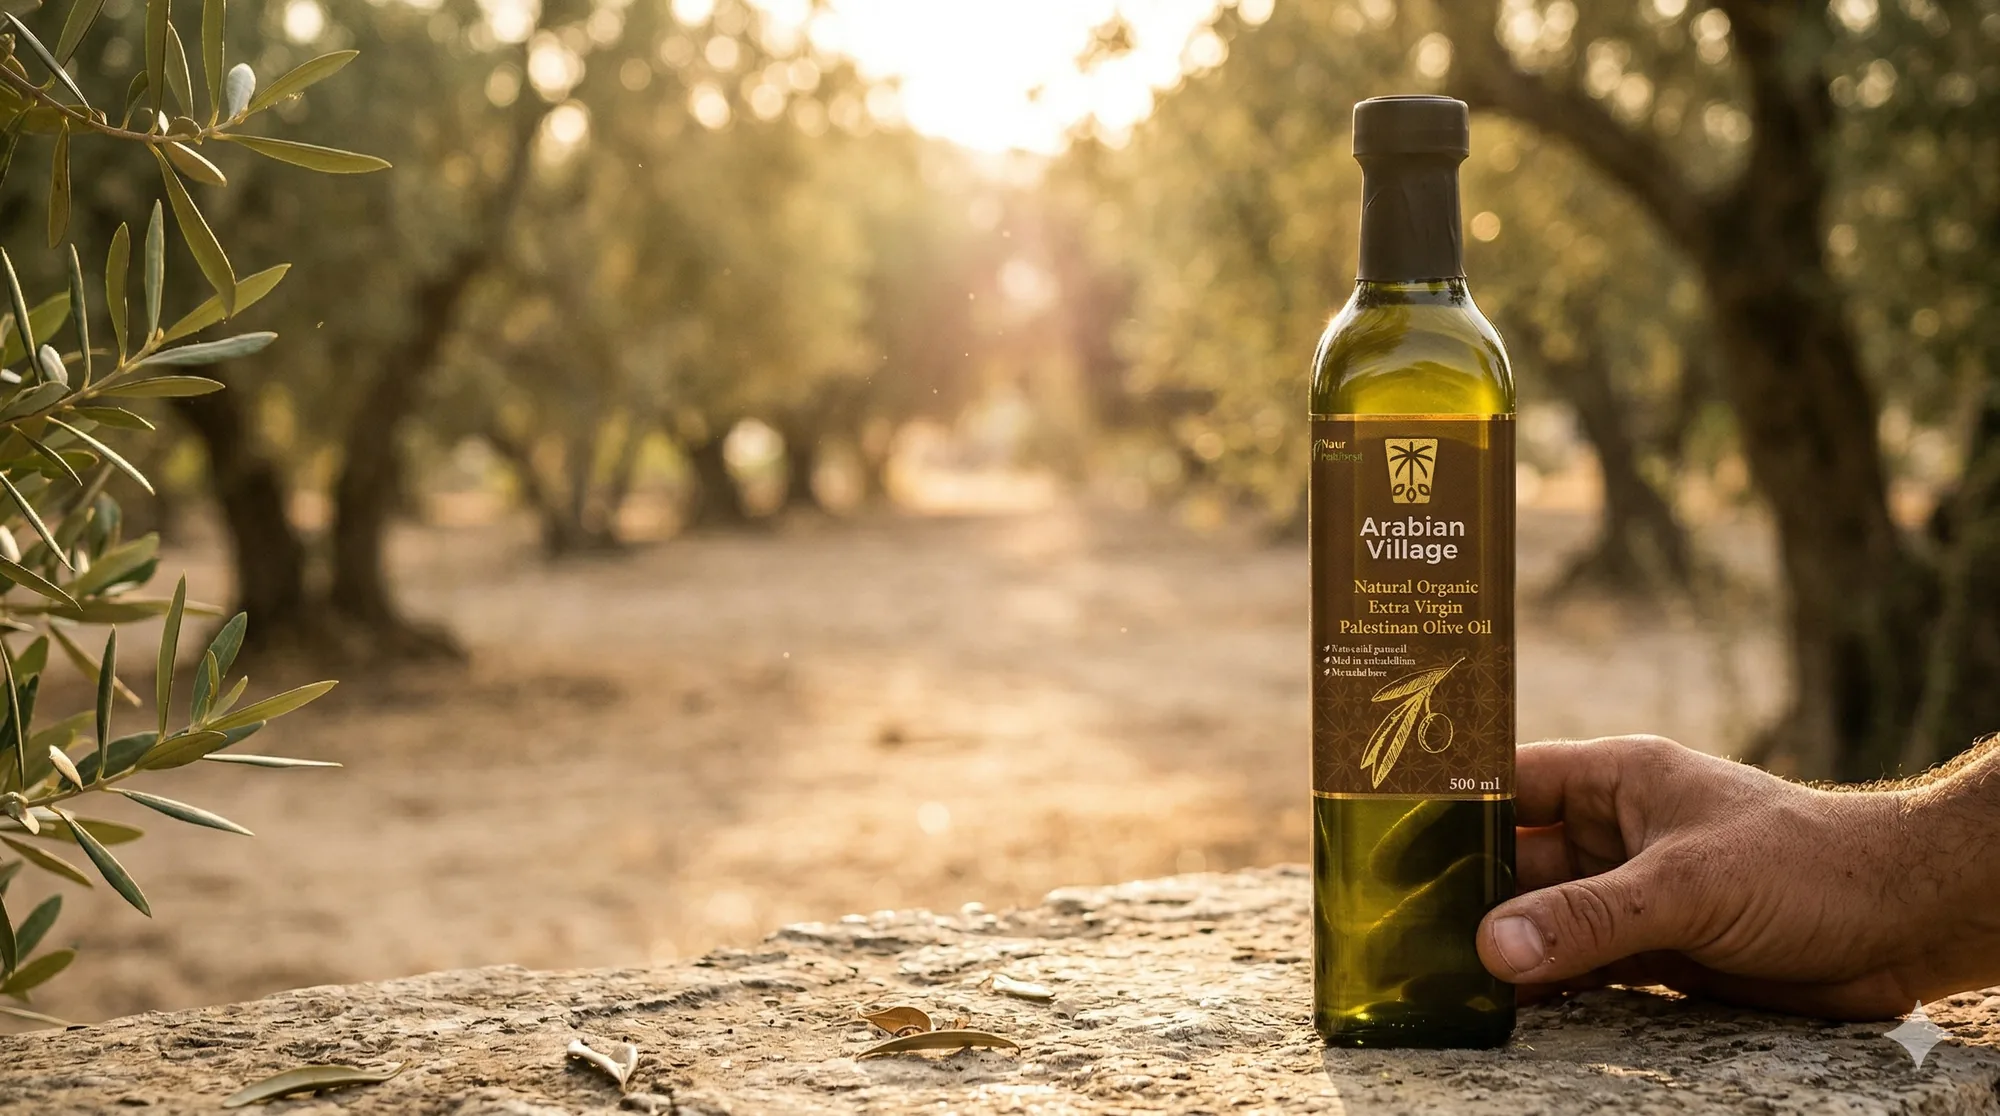
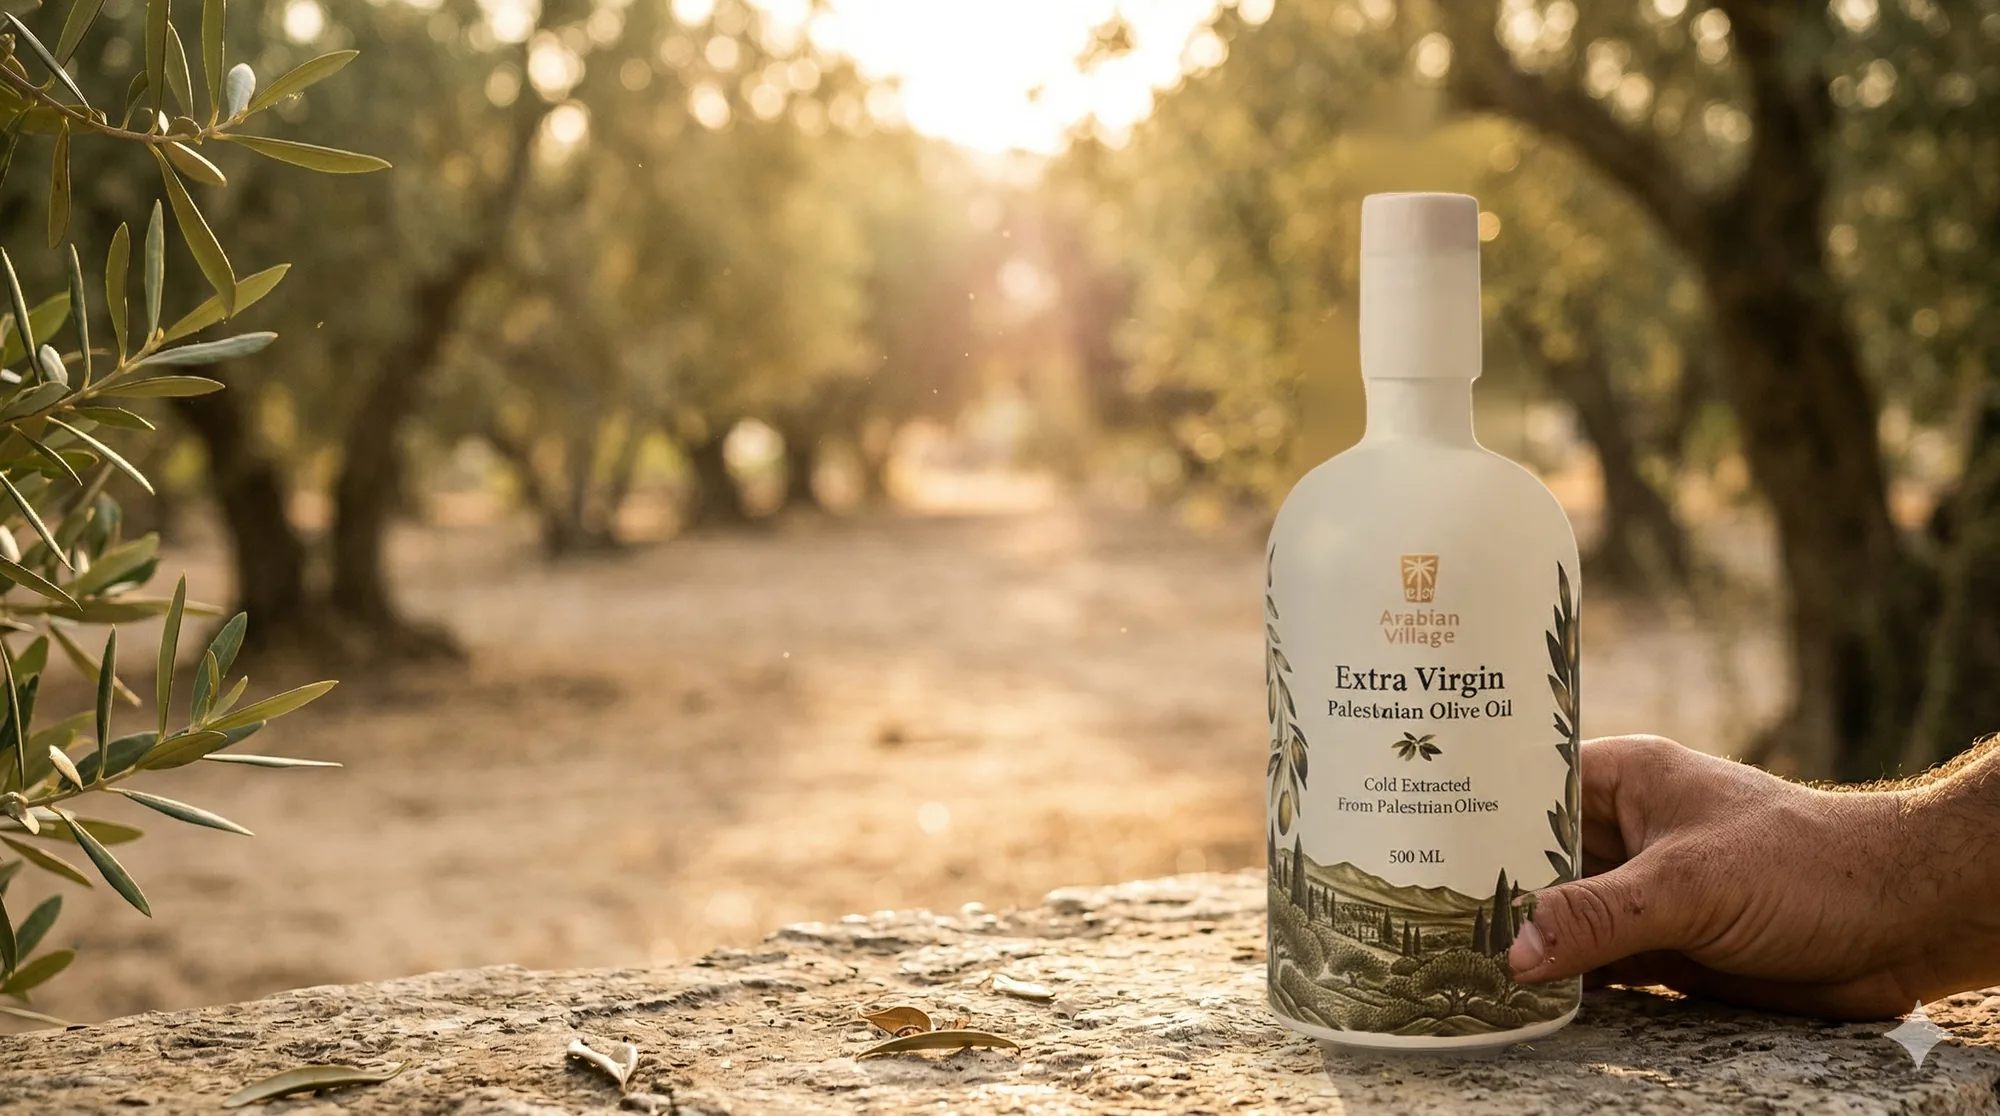
Photos: new bottles in 5 lifestyle scenes, cleaner Organic packshot, transparent header bottle
- AVOliveOilInTheField, HeroAVOliveOilBottleInTheField, journey-08-final:
  old bottle removed and replaced by the real Extra Virgin / Organic bottle
- woman-holding-bottle-nobg, malaysian-woman-bottle-kampung: old bottle
  replaced by the same-shape infused bottles, fingers kept in front
- product-organic-2: repaired edge + floor shadow (new name so caches refresh)
- home hero: transparent Extra Virgin cut-out, no white tile

Changed region(s): [[0.62, 0.0609, 0.806, 0.9749]]

diff --git a/src/components/sections/Hero.tsx b/src/components/sections/Hero.tsx
@@ -41,17 +41,17 @@ function BottleParallax({ mouse }: { mouse: React.MutableRefObject<{ x: number; 
   }, [mouse]);
 
   return (
-    // The Extra Virgin white square IS the tile (FORGE PRODUCTS-R1 O-10): rounded,
-    // white, shadowed — so the parallax transform tilts the whole card, not a photo
-    // sliding around inside a frame. Square, so `sizes` = its rendered height.
+    // Owner 2026-11-05: the header bottle sits on the scene with NO white tile —
+    // the transparent Extra Virgin cut-out (533x1429), sized by height.
     <Picture
       ref={imgRef}
-      name="product-extra-virgin"
+      name="product-extra-virgin-cutout"
       alt={t('alt.heroBottle')}
       cmsKey="home.hero.bottle"
       cmsAltKey="alt.heroBottle"
-      className="relative z-10 aspect-square h-[30vh] w-auto max-w-full rounded-[1.75rem] border border-olive-dark/10 bg-white object-contain shadow-[0_30px_60px_rgba(46,58,36,0.22)] sm:h-[40vh] md:h-[min(52vh,520px)]"
-      sizes="(min-width: 768px) min(52vh, 520px), (min-width: 640px) 40vh, 30vh"
+      className="relative z-10 h-[34vh] w-auto max-w-full object-contain sm:h-[44vh] md:h-[min(62vh,620px)]"
+      style={{ filter: 'drop-shadow(0 28px 30px rgba(46,58,36,0.30))' }}
+      sizes="(min-width: 768px) min(23vh, 232px), (min-width: 640px) 17vh, 13vh"
       priority
     />
   );
